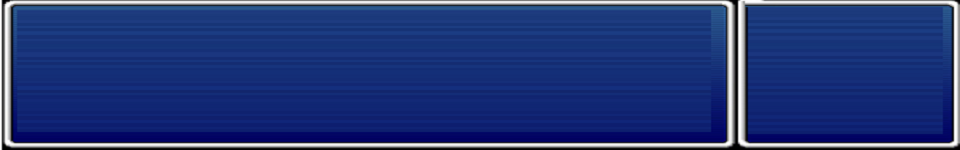
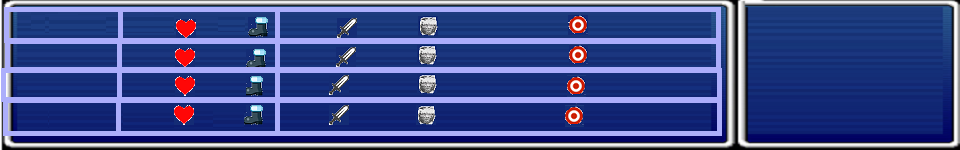
fixbug personnage + affichage menu bas

Changed region(s): [[0.0, 0.0267, 0.75, 0.9067], [0.5625, 0.72, 0.625, 0.8267]]

diff --git a/Fichiers sources/FenetreYoan.cpp b/Fichiers sources/FenetreYoan.cpp
@@ -28,7 +28,7 @@
 using namespace std;
 using namespace sf;
 
-FenetreYoan::FenetreYoan(sf::Vector2u dimension,Personnage* personnagesConstr)
+FenetreYoan::FenetreYoan(sf::Vector2u dimension,Personnage* p)
 {
 	this->create(VideoMode(dimension.x, dimension.y), "Ages of Strategies");
 	this->dimension_x = dimension.x;
@@ -46,8 +46,21 @@ FenetreYoan::FenetreYoan(sf::Vector2u dimension,Personnage* personnagesConstr)
 	this->scaleMenuBasX = (double)this->dimension_x / TAILLEMENU_X;
 	this->scaleMenuBasY= ((double)this->dimension_y/(TAILLEDEBASEY/ TAILLEMENU_Y))/TAILLEMENU_Y;
 
-	this->personnages = new Personnage[4];
-	this->personnages = personnagesConstr;
+	/*
+	Personnage* p1 = new Personnage("archer");
+	Personnage* p2 = new Personnage("archer");
+	Personnage* p3 = new Personnage("archer");
+	Personnage* p4 = new Personnage("archer");
+
+	Personnage* p = new Personnage[4]; 
+	p[0] = *p1;
+	p[1] = *p2;
+	p[2] = *p3;
+	p[3] = *p4;*/
+
+	this->personnages = p;
+	//this->personnages = new Personnage[4];
+	//this->personnages = personnagesConstr;
 	//printf("%f,%f", scaleMenuBasX, scaleMenuBasY);
 }
 
@@ -250,7 +263,7 @@ void FenetreYoan::render() {
 	}
 
 	Sprite *sMenuBas = new Sprite(*pMenuBas);
-	sMenuBas->setPosition(0, this->dimension_y - ECRAN_BAS + (2 * 45));
+	sMenuBas->setPosition(0,360);
 	this->draw(*sMenuBas);
 	sMenuBas->scale(this->scaleMenuBasX, this->scaleMenuBasY);
 
@@ -261,16 +274,57 @@ void FenetreYoan::render() {
 		printf("Error load text :%s", font);
 	}
 	for (int i = 0; i < 4; i++) {
-		sf::Text text;
-		text.setFont(font);
-		text.setPosition(20,370+(i*30));
-		text.setString(std::to_string(this->personnages[2].degat));
-		//text.setString(this->personnages[i].type + "   PV " + std::to_string(this->personnages[i].vieRestante) + "/" + std::to_string(this->personnages[i].vie) + "  PM " + std::to_string(this->personnages[i].deplacementRestante) + "/" + std::to_string(this->personnages[i].deplacement) + " ");
-		text.setCharacterSize(20);
+		sf::Text type;
+		type.setFont(font);
+		type.setCharacterSize(15);
+		type.setString(this->personnages[i].type);
+		type.setPosition(20, 375 + (i * 30));
+		sf::Text pv;
+		pv.setFont(font);
+		pv.setCharacterSize(12);
+		pv.setString(std::to_string(this->personnages[i].vieRestante) + "/" + std::to_string(this->personnages[i].vie));
+		pv.setPosition(125, 375 + (i * 30));
+		sf::Text pm;
+		pm.setFont(font);
+		pm.setCharacterSize(15);
+		pm.setString(std::to_string(this->personnages[i].deplacementRestante) + "/" + std::to_string(this->personnages[i].deplacement));
+		pm.setPosition(220, 375 + (i * 30));
+		sf::Text degat;
+		degat.setFont(font);
+		degat.setCharacterSize(15);
+		degat.setString(std::to_string(this->personnages[i].degat));
+		degat.setPosition(300, 375 + (i * 30));
+		sf::Text armor;
+		armor.setFont(font);
+		armor.setCharacterSize(15);
+		armor.setString(std::to_string(this->personnages[i].armure));
+		armor.setPosition(400, 375 + (i * 30));
+		sf::Text range;
+		range.setFont(font);
+		range.setCharacterSize(15);
+		range.setString(std::to_string(this->personnages[i].range));
+		range.setPosition(550, 375 + (i * 30));
+
+		
+
+		
+		std::string s = this->personnages[i].afficher();
+		
 		//	text.setColor(sf::Color::Red);
-		this->draw(text);
+		this->draw(type);
+		this->draw(pv);
+		this->draw(pm);
+		this->draw(degat);
+		this->draw(armor);
+		this->draw(range);
+		
 	}
-	
+	sf::Text name;
+	name.setFont(font);
+	name.setCharacterSize(15);
+	name.setString("Joueur 1");
+	name.setPosition(10, 520);
+	this->draw(name);
 
 	this->display();
 }

diff --git a/Fichiers sources/Personnage.cpp b/Fichiers sources/Personnage.cpp
@@ -42,6 +42,16 @@ Personnage::Personnage(std::string typeConstr){
 
 	}
 }
+std::string Personnage::afficher() {
+	std::string s = this->type +
+		"        " + std::to_string(this->vieRestante) + "/" + std::to_string(this->vie) +
+		"    " + std::to_string(this->deplacementRestante) + "/" + std::to_string(this->deplacement) +
+		"  " + std::to_string(this->degat) +
+		"   " + std::to_string(this->armure) +
+		"         " + std::to_string(this->range);
+
+	return s;
+}
 Personnage::Personnage() {
 
 }

diff --git a/Fichiers header/Personnage.h b/Fichiers header/Personnage.h
@@ -13,9 +13,12 @@ class Personnage
 private:
 	
 
-
 public:
-	std::string type;
+	
+	Personnage(std::string type);
+	std::string afficher();
+	Personnage();
+	void setCarac();
 	int vie;
 	int range;
 	int degat;
@@ -23,10 +26,7 @@ public:
 	int deplacement;
 	int deplacementRestante;
 	int vieRestante;
-	Personnage(std::string type);
-	Personnage();
-	void setCarac();
-
+	std::string type;
 
 
 };

diff --git a/Fichiers header/FenetreYoan.h b/Fichiers header/FenetreYoan.h
@@ -26,7 +26,7 @@ private:
 	sf::Sprite sprite;
 
 public:
-	FenetreYoan(sf::Vector2u dimension,Personnage* personnages);
+	FenetreYoan(sf::Vector2u dimension,Personnage* p);
 	~FenetreYoan();
 
 	// Chargement des resources
